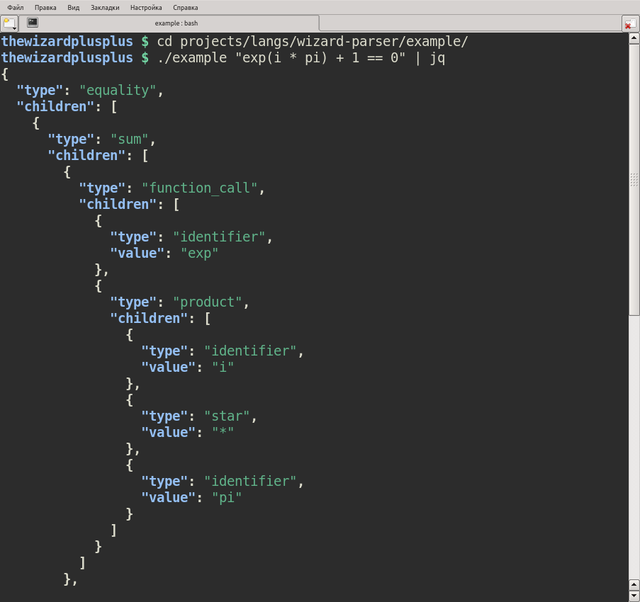
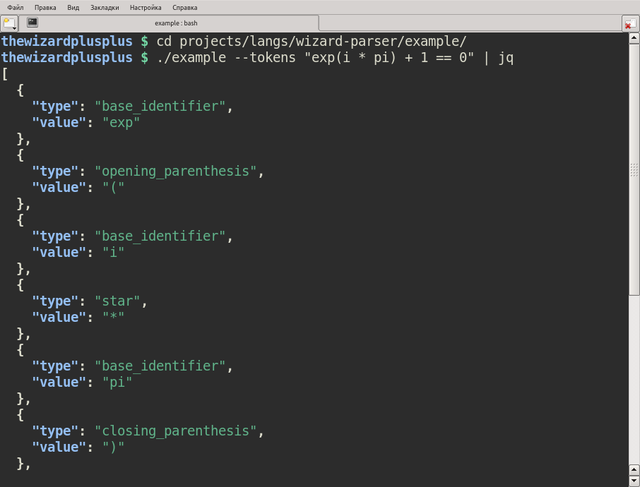
Update screenshots

diff --git a/readme.md b/readme.md
@@ -27,7 +27,13 @@ LL(\*)-парсер на C++ с поддержкой DSL для описания
 
 ## Скриншоты
 
-![Пример AST-дерева](screenshots/screenshot_00.png)
+![Лексический анализ](screenshots/screenshot_00.png)
+
+Лексический анализ
+
+![Синтаксический анализ](screenshots/screenshot_01.png)
+
+Синтаксический анализ
 
 ## Лицензия
 
